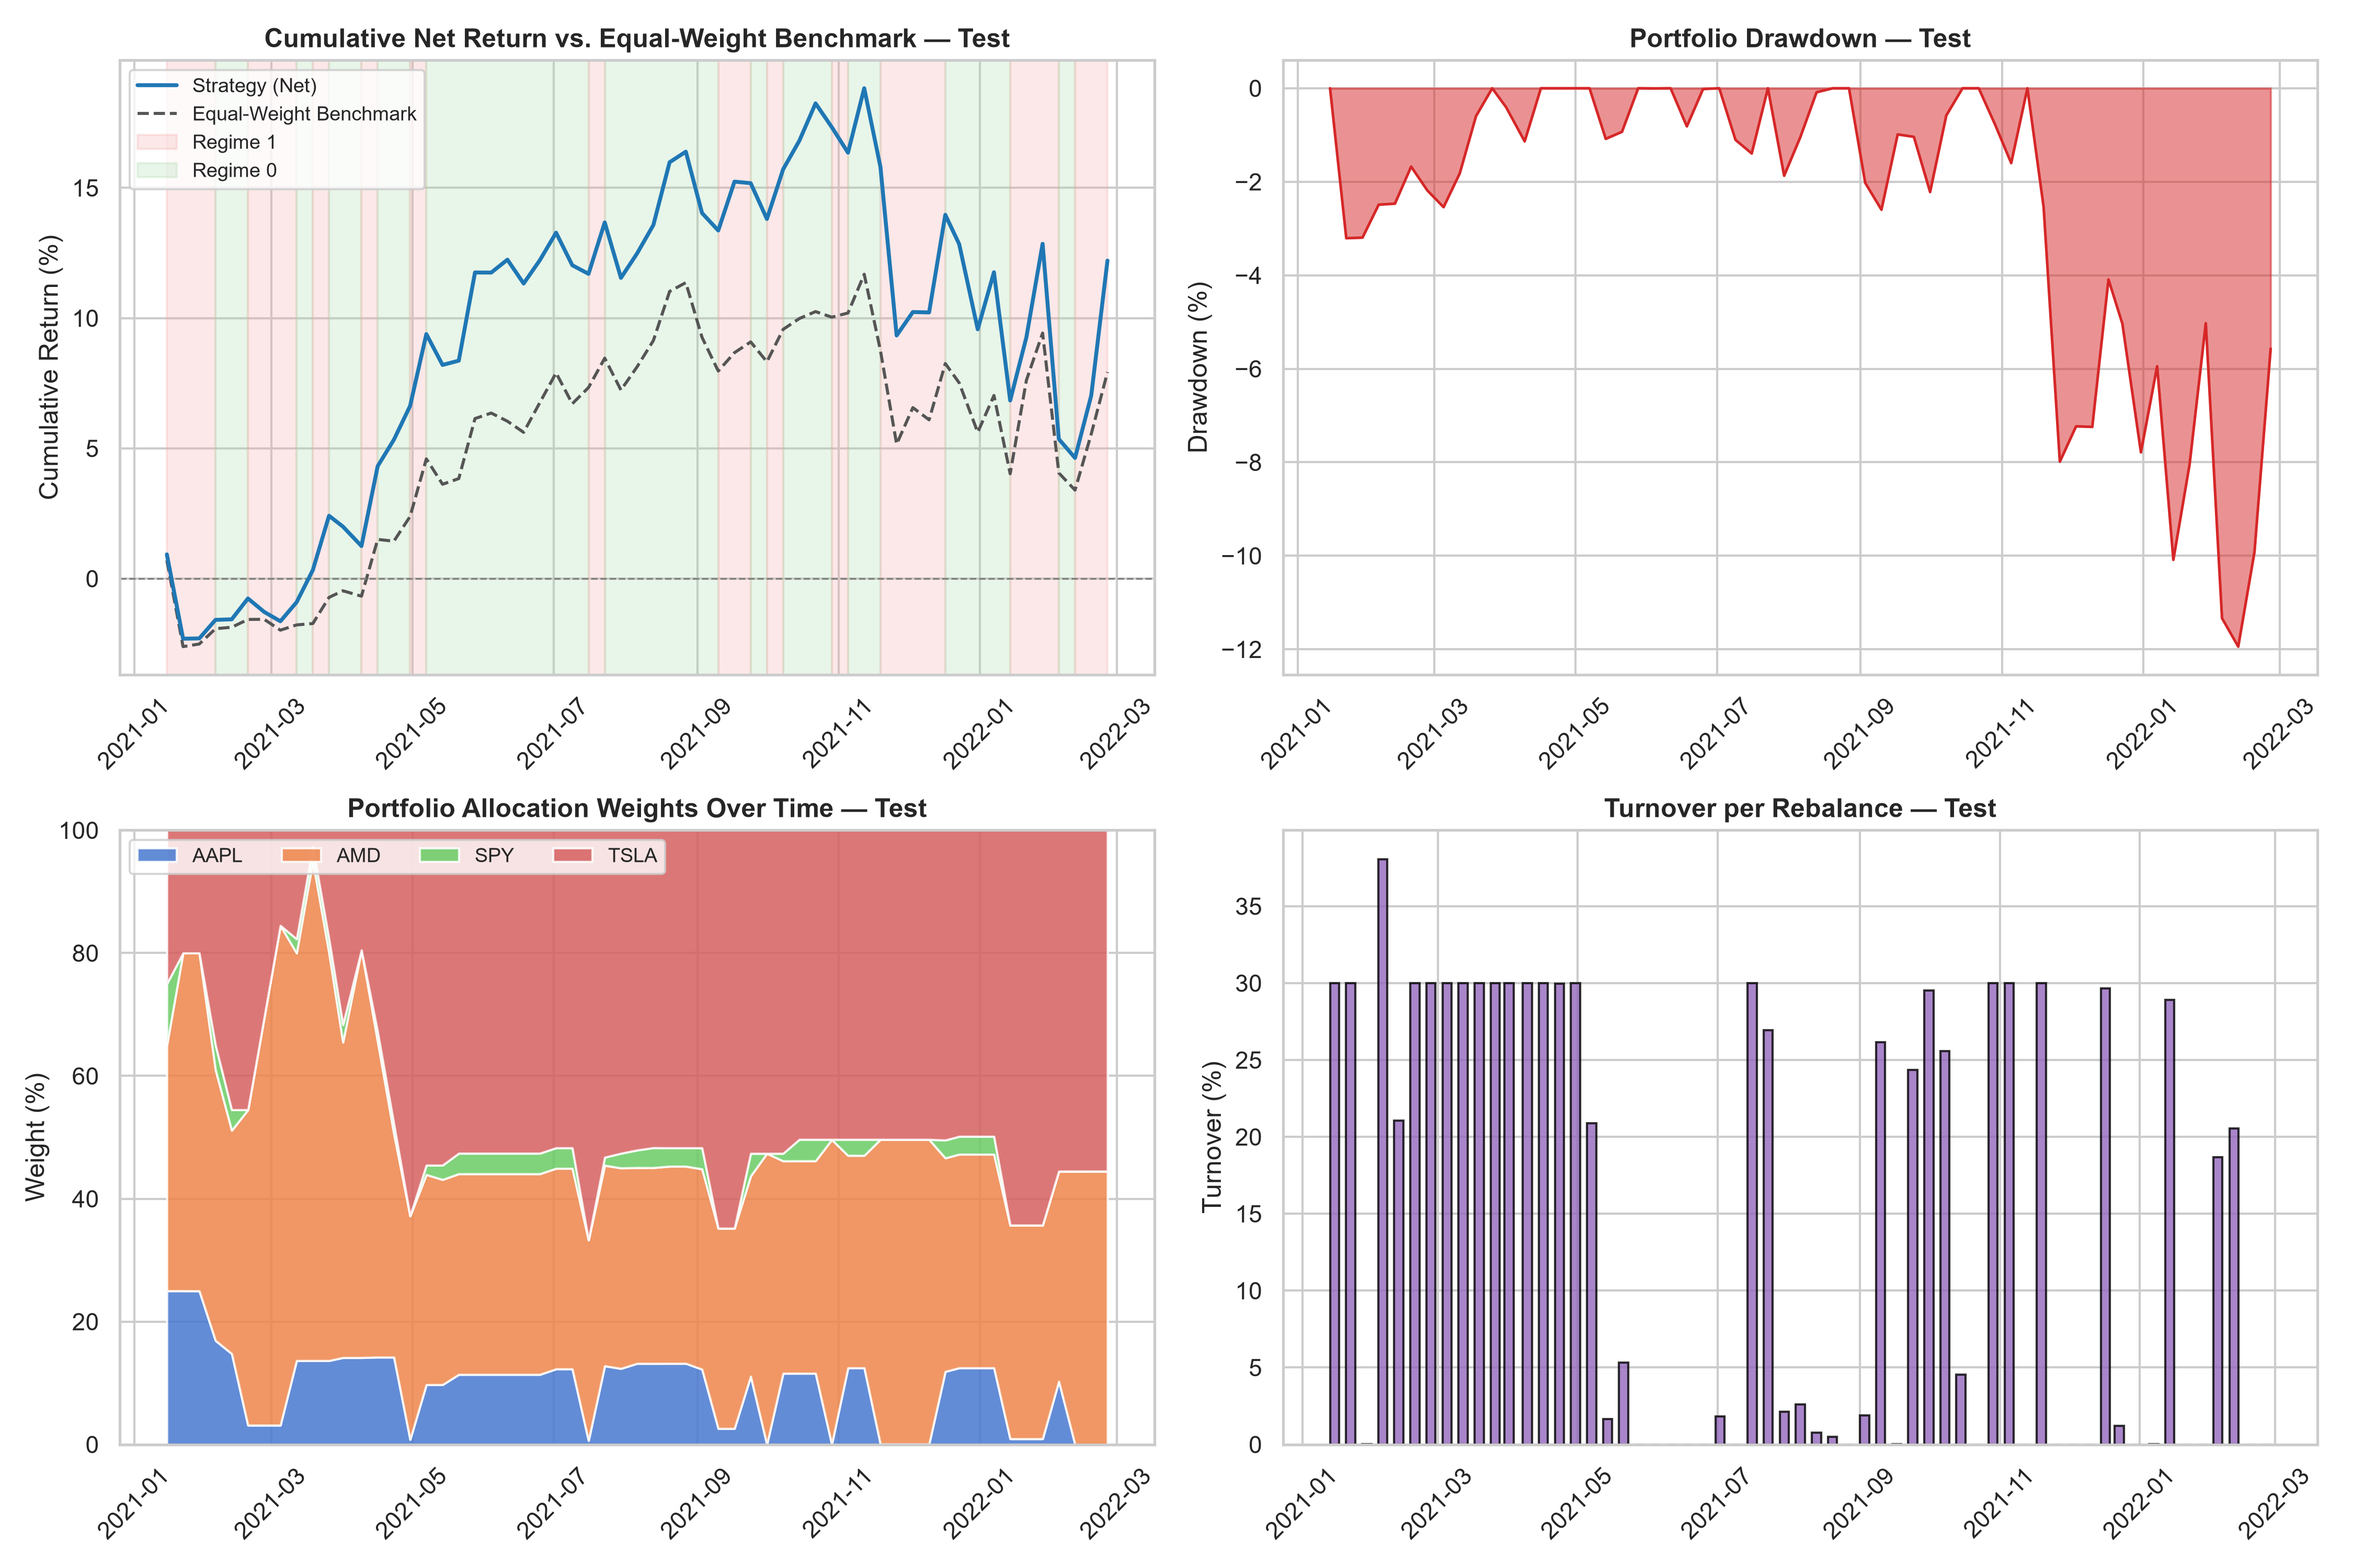
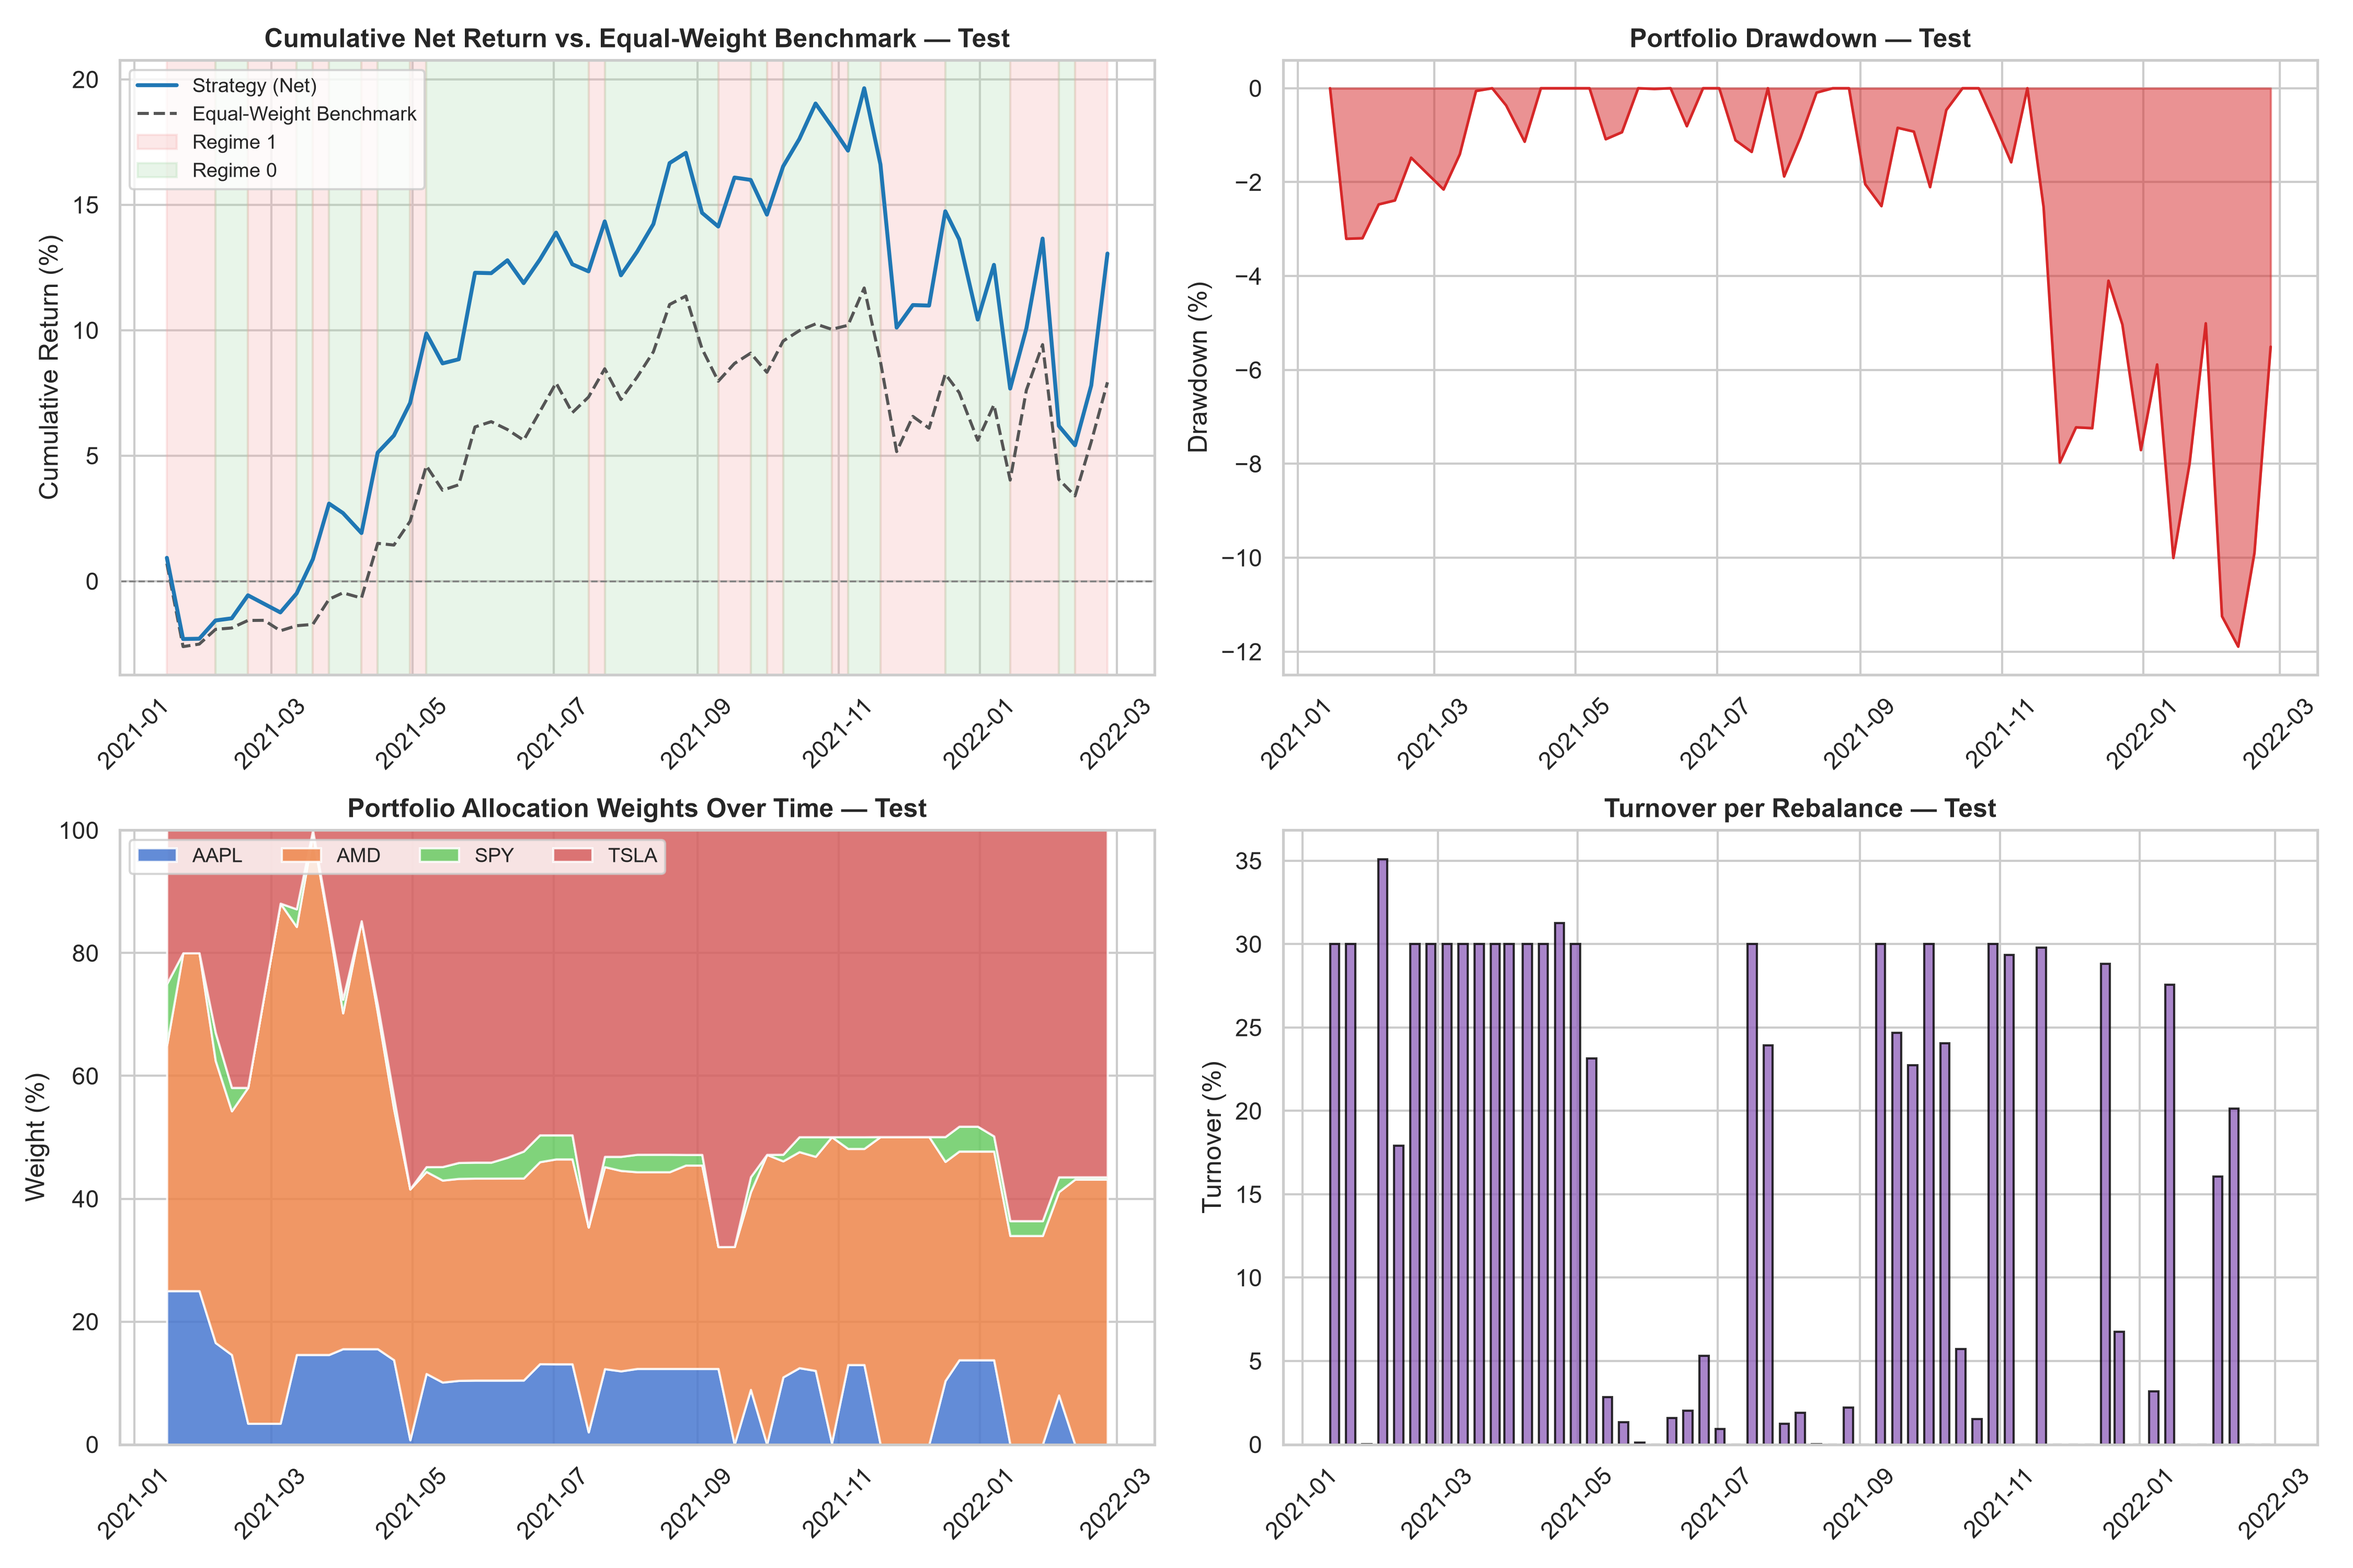
Increased Timeframe

diff --git a/src/backtester.py b/src/backtester.py
@@ -4,6 +4,7 @@ import pandas as pd
 import matplotlib.pyplot as plt
 import matplotlib.dates as mdates
 import seaborn as sns
+from scipy import stats
 from sklearn.metrics import precision_score, recall_score, f1_score, confusion_matrix
 from portfolio_engine import load_saved_posterior, generate_bayesian_inputs, optimize_portfolio
 
@@ -339,6 +340,48 @@ def run_segment_backtest(master_df, tickers, base_dir, reports_dir,
         print("-"*50)
     else:
         print(f"\n[{segment_label}] Skipped F1 scoring: insufficient class variation in realized returns.")
+
+    # Statistical significance of Strategy vs. Benchmark: with only ~50-60
+    # weekly observations per segment, a Sharpe/return gap that *looks*
+    # better can easily be noise. This tests whether the paired weekly
+    # excess return (Net_Return - Benchmark_Return) is distinguishable
+    # from zero -- a one-sample t-test (parametric) plus a bootstrap CI
+    # on the mean (fewer distributional assumptions, more trustworthy at
+    # this sample size) reported side by side.
+    excess_return = df_results['Net_Return'] - df_results['Benchmark_Return']
+    n_obs = len(excess_return)
+
+    t_stat, p_value = stats.ttest_1samp(excess_return, popmean=0.0)
+
+    n_bootstrap = 5000
+    rng = np.random.default_rng(seed=42)
+    boot_means = np.array([
+        rng.choice(excess_return.values, size=n_obs, replace=True).mean()
+        for _ in range(n_bootstrap)
+    ])
+    ci_low, ci_high = np.percentile(boot_means, [2.5, 97.5])
+
+    mean_excess = excess_return.mean()
+    is_significant = p_value < 0.05
+    ci_excludes_zero = (ci_low > 0) or (ci_high < 0)
+
+    print(f"\nSTATISTICAL SIGNIFICANCE — {segment_label.upper()} (Strategy vs. Benchmark)")
+    print("-"*50)
+    print(f"Observations (weekly periods):  {n_obs}")
+    print(f"Mean weekly excess return:      {mean_excess*100:.4f}%")
+    print(f"t-statistic:                    {t_stat:.4f}")
+    print(f"p-value (two-sided):            {p_value:.4f}")
+    print(f"95% bootstrap CI on mean:       [{ci_low*100:.4f}%, {ci_high*100:.4f}%]")
+    if is_significant and ci_excludes_zero:
+        verdict = "Excess return is statistically distinguishable from zero at the 5% level."
+    elif not is_significant and not ci_excludes_zero:
+        verdict = ("Excess return is NOT statistically distinguishable from zero -- "
+                   "the observed gap vs. the benchmark could plausibly be noise at this sample size.")
+    else:
+        verdict = ("t-test and bootstrap CI disagree on significance -- treat this "
+                   "segment's result as inconclusive rather than picking whichever supports the narrative.")
+    print(f"Verdict: {verdict}")
+    print("-"*50)
 
     chart_path = os.path.join(reports_dir, f"backtest_results_dashboard_{segment_label.lower()}.png")
     plot_backtest_results(df_results, tickers, chart_path, title_suffix=f" — {segment_label}")
